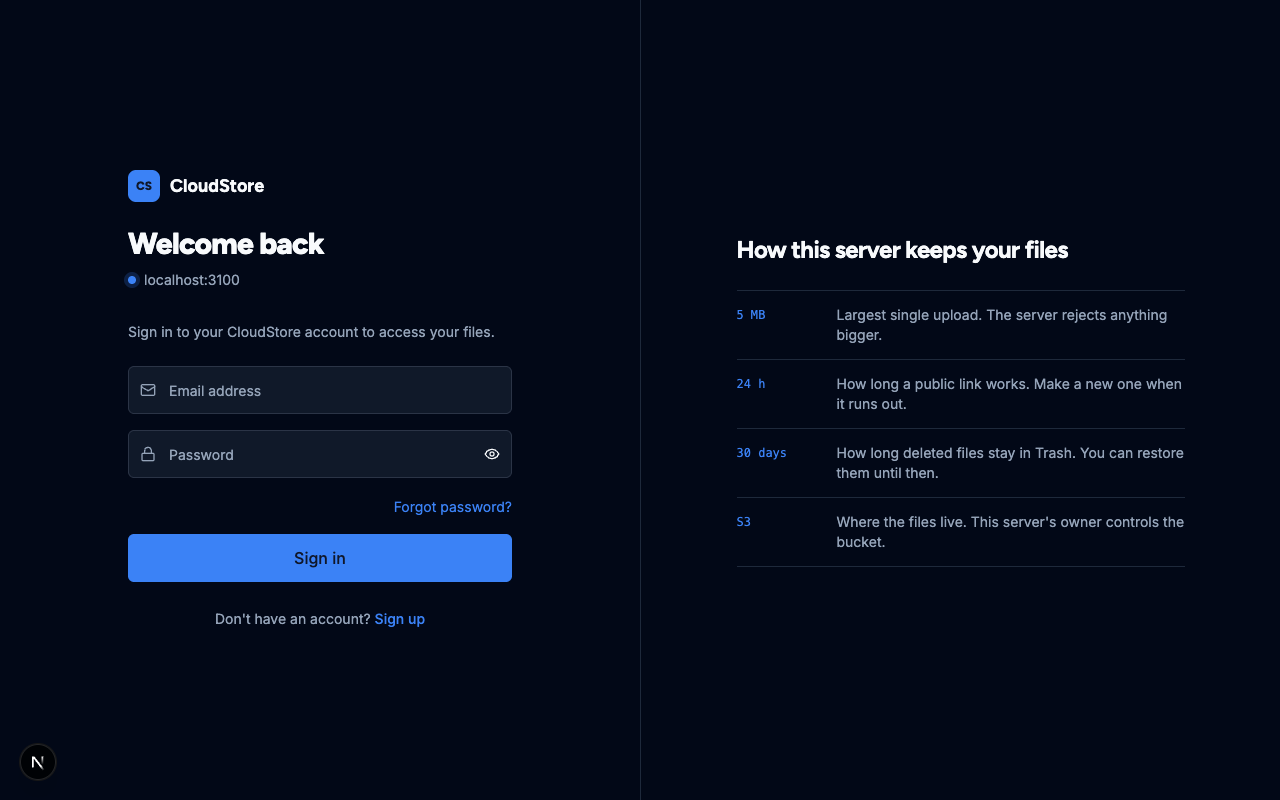
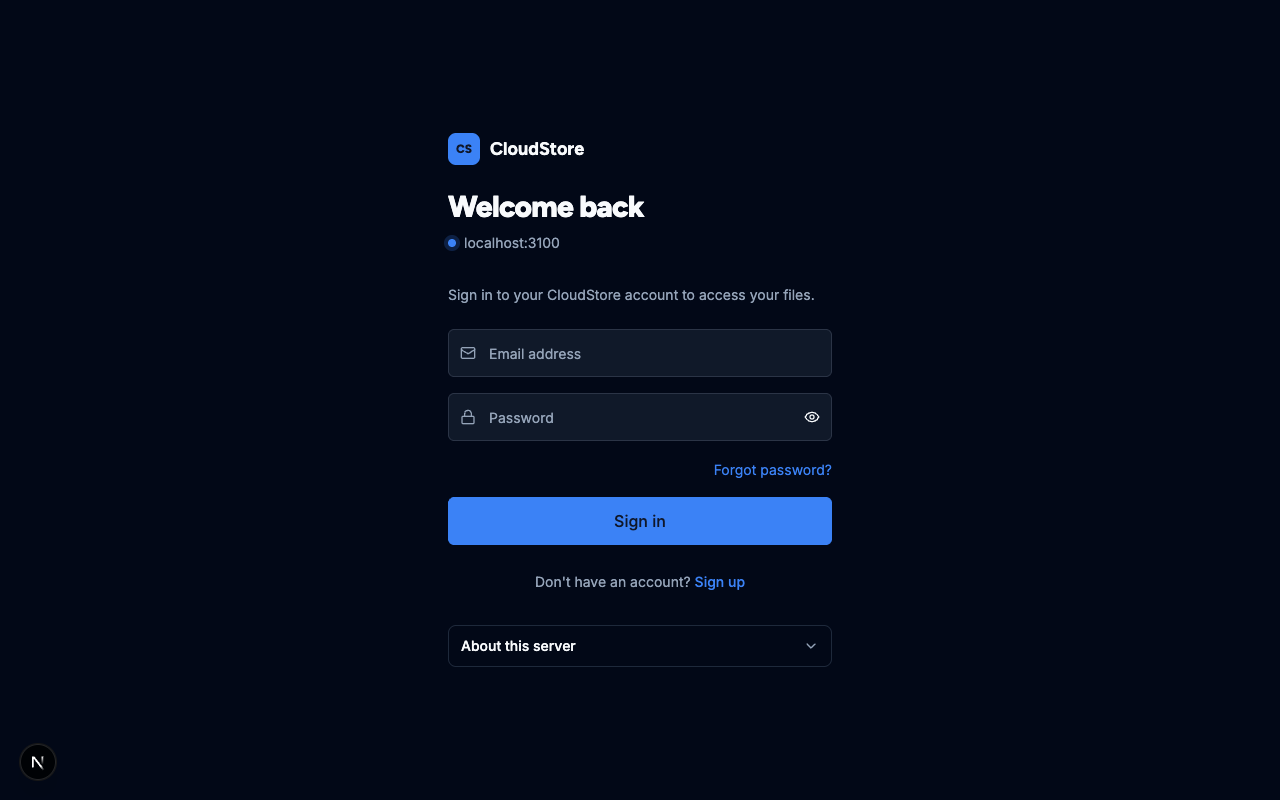
feat(frontend): move the server rules into a collapsible panel on the auth pages
The two-column layout split attention between the form and a panel of
rules. The auth pages are back to one centred column, and the rules sit
in an "About this server" panel under the form. It starts closed and
opens and closes in place.

The rules now read as a title and a short sentence (Upload files: up to
5 MB each, and so on) instead of a bare value next to a long note.

diff --git a/frontend/features/auth/components/auth-page-shell.tsx b/frontend/features/auth/components/auth-page-shell.tsx
@@ -1,51 +1,35 @@
 import type React from "react"
 import { getTranslations } from "next-intl/server"
 import { InstanceHost } from "@/features/auth/components/instance-host"
+import { ServerInfo } from "@/features/auth/components/server-info"
 
 interface AuthPageShellProps {
   title: string
   children: React.ReactNode
 }
 
-const RULES = ["upload", "link", "trash", "storage"] as const
-
 export async function AuthPageShell({ title, children }: AuthPageShellProps) {
   const t = await getTranslations("auth.shell")
   const tCommon = await getTranslations("common")
 
   return (
-    <div className="grid min-h-screen bg-background lg:grid-cols-2">
-      <div className="flex items-center justify-center px-5 py-12">
-        <div className="w-full max-w-sm space-y-8">
-          <div className="space-y-6">
-            <div className="flex items-center gap-2.5 font-display text-lg font-bold">
-              <div className="grid size-8 place-items-center rounded-lg bg-primary text-xs font-extrabold text-primary-foreground">
-                CS
-              </div>
-              {tCommon("appName")}
+    <div className="flex min-h-screen items-center justify-center bg-background px-5 py-12">
+      <div className="w-full max-w-sm space-y-8">
+        <div className="space-y-6">
+          <div className="flex items-center gap-2.5 font-display text-lg font-bold">
+            <div className="grid size-8 place-items-center rounded-lg bg-primary text-xs font-extrabold text-primary-foreground">
+              CS
             </div>
-            <div className="space-y-2">
-              <h1 className="text-3xl font-extrabold">{title}</h1>
-              <InstanceHost label={t("hostLabel")} />
-            </div>
+            {tCommon("appName")}
           </div>
-          {children}
+          <div className="space-y-2">
+            <h1 className="text-3xl font-extrabold">{title}</h1>
+            <InstanceHost label={t("hostLabel")} />
+          </div>
         </div>
+        {children}
+        <ServerInfo />
       </div>
-
-      <aside className="flex items-center border-t bg-card px-5 py-12 lg:border-l lg:border-t-0 lg:px-14">
-        <div className="mx-auto w-full max-w-md space-y-6">
-          <h2 className="text-2xl font-bold">{t("rulesTitle")}</h2>
-          <dl className="border-t">
-            {RULES.map((rule) => (
-              <div key={rule} className="grid grid-cols-[84px_minmax(0,1fr)] gap-4 border-b py-3.5 text-sm">
-                <dt className="pt-0.5 font-mono text-xs text-primary">{t(`rules.${rule}.value`)}</dt>
-                <dd className="text-muted-foreground">{t(`rules.${rule}.text`)}</dd>
-              </div>
-            ))}
-          </dl>
-        </div>
-      </aside>
     </div>
   )
 }

diff --git a/frontend/features/auth/components/server-info.tsx b/frontend/features/auth/components/server-info.tsx
@@ -1,0 +1,46 @@
+"use client"
+
+import { useId, useState } from "react"
+import { useTranslations } from "next-intl"
+import { ChevronDown } from "lucide-react"
+import { cn } from "@/lib/utils"
+
+const RULES = ["upload", "link", "trash", "storage"] as const
+
+/** "About this server": a closed-by-default panel under the auth form that lists the server's rules. */
+export function ServerInfo() {
+  const t = useTranslations("auth.shell")
+  const [open, setOpen] = useState(false)
+  const panelId = useId()
+
+  return (
+    <div className="overflow-hidden rounded-lg border">
+      <button
+        type="button"
+        aria-expanded={open}
+        aria-controls={panelId}
+        onClick={() => setOpen((value) => !value)}
+        className="flex w-full items-center justify-between px-3 py-2.5 text-left text-sm font-medium hover:bg-muted/40 focus-visible:outline-none focus-visible:ring-2 focus-visible:ring-inset focus-visible:ring-ring"
+      >
+        {t("about")}
+        <ChevronDown
+          className={cn(
+            "h-4 w-4 text-muted-foreground transition-transform duration-200 motion-reduce:transition-none",
+            open && "rotate-180",
+          )}
+          aria-hidden
+        />
+      </button>
+      <div id={panelId} hidden={!open} className="border-t bg-card">
+        <dl className="divide-y">
+          {RULES.map((rule) => (
+            <div key={rule} className="grid gap-0.5 px-3 py-2.5">
+              <dt className="font-display text-sm font-bold">{t(`rules.${rule}.title`)}</dt>
+              <dd className="text-sm text-muted-foreground">{t(`rules.${rule}.text`)}</dd>
+            </div>
+          ))}
+        </dl>
+      </div>
+    </div>
+  )
+}

diff --git a/frontend/features/auth/components/__tests__/server-info.test.tsx b/frontend/features/auth/components/__tests__/server-info.test.tsx
@@ -1,0 +1,32 @@
+import { screen } from "@testing-library/react"
+import userEvent from "@testing-library/user-event"
+import { describe, expect, it } from "vitest"
+import { renderWithIntl } from "@/test/render"
+import { ServerInfo } from "@/features/auth/components/server-info"
+
+describe("ServerInfo", () => {
+  it("starts closed and opens and closes the server rules in place", async () => {
+    const user = userEvent.setup()
+    renderWithIntl(<ServerInfo />)
+
+    const toggle = screen.getByRole("button", { name: "About this server" })
+    expect(toggle).toHaveAttribute("aria-expanded", "false")
+    expect(screen.queryByText("Up to 5 MB each")).not.toBeVisible()
+
+    await user.click(toggle)
+    expect(toggle).toHaveAttribute("aria-expanded", "true")
+    expect(screen.getByText("Up to 5 MB each")).toBeVisible()
+    expect(screen.getByText("Stops working 24 hours after you create it")).toBeVisible()
+    expect(screen.getByText("Files stay 30 days, then they're deleted for good")).toBeVisible()
+    expect(screen.getByText("Files are kept in this server owner's S3 bucket")).toBeVisible()
+
+    await user.click(toggle)
+    expect(toggle).toHaveAttribute("aria-expanded", "false")
+    expect(screen.getByText("Up to 5 MB each")).not.toBeVisible()
+  })
+
+  it("is translated", () => {
+    renderWithIntl(<ServerInfo />, { locale: "pl" })
+    expect(screen.getByRole("button", { name: "O tym serwerze" })).toBeInTheDocument()
+  })
+})
